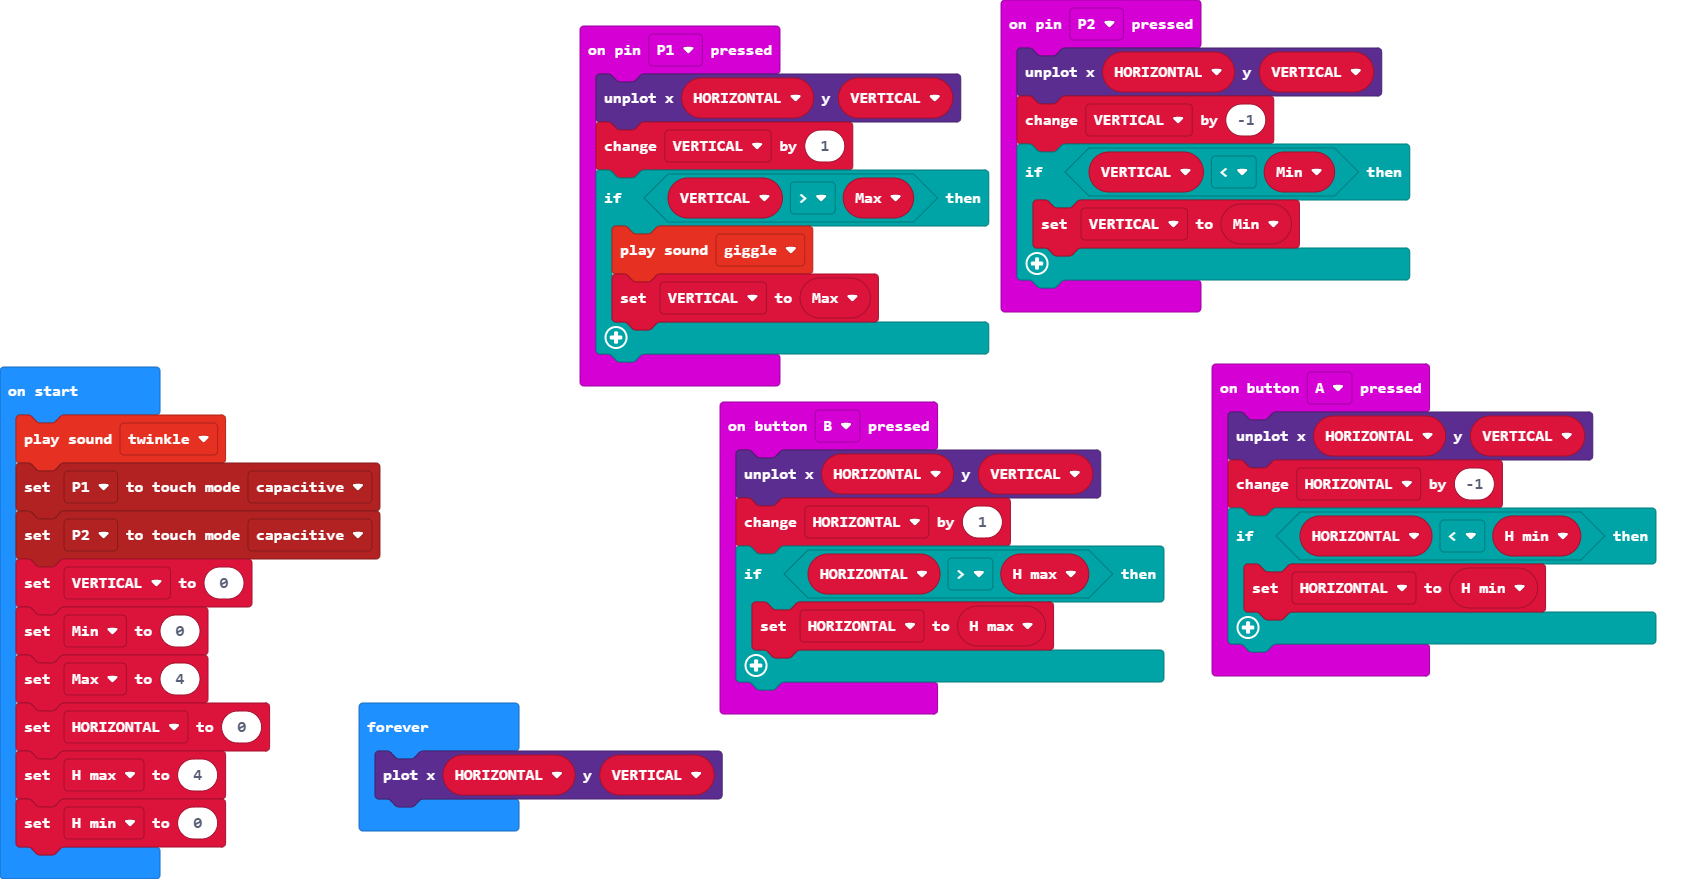
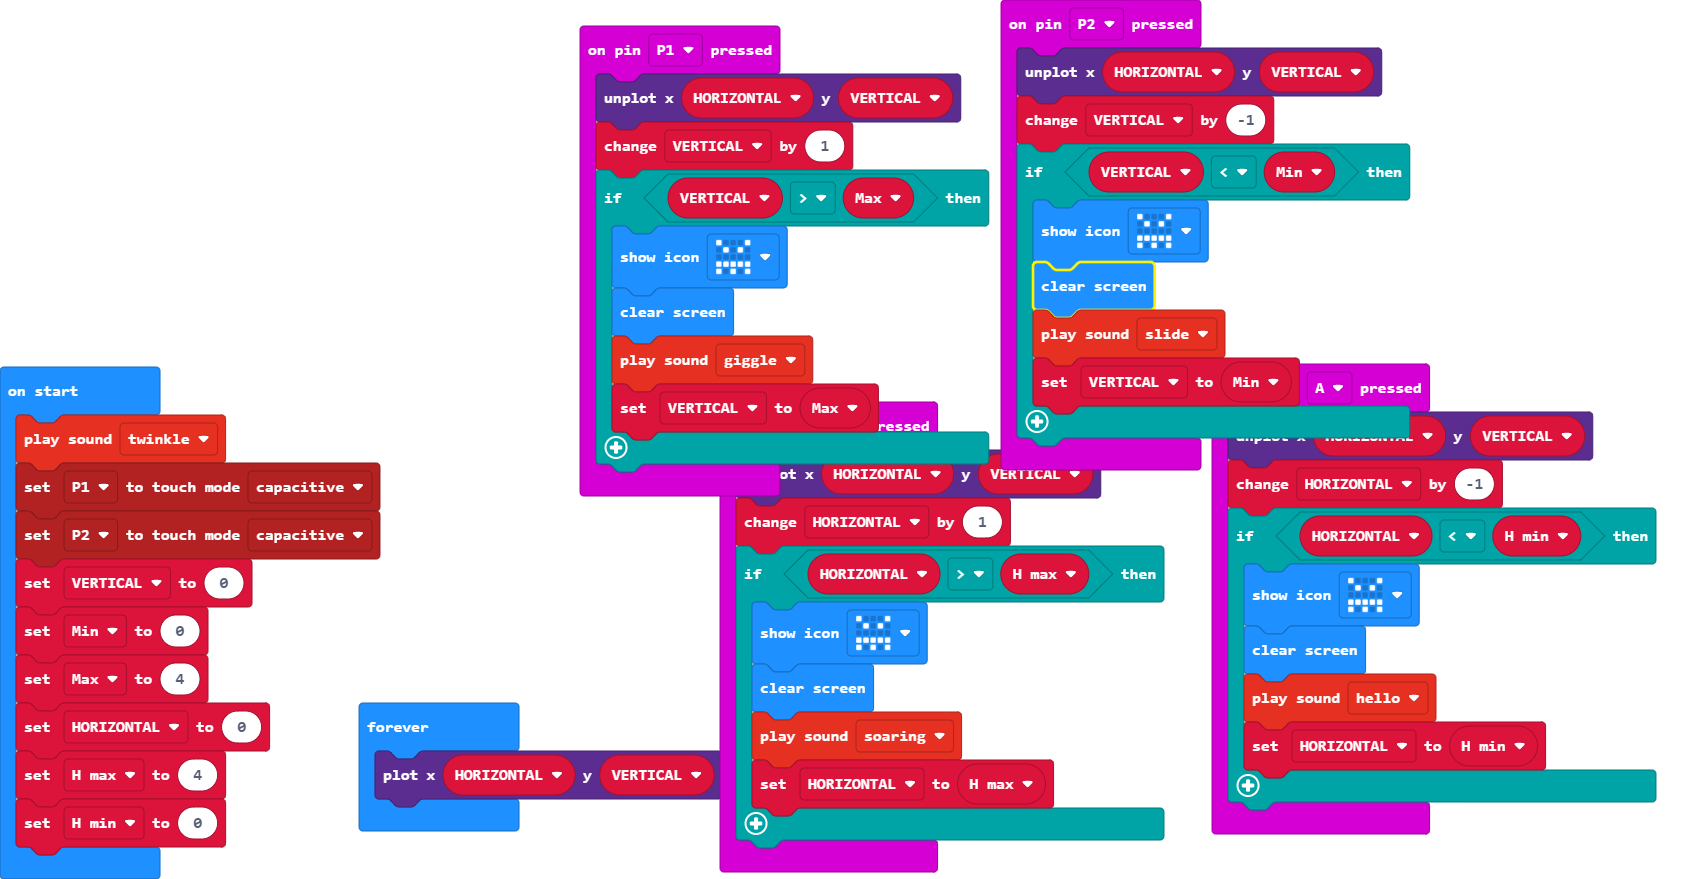
ADD: angry face

Changed region(s): [[0.4034, 0.6143, 0.993, 1.0], [0.3413, 0.215, 0.8378, 0.5836]]

diff --git a/main.ts b/main.ts
@@ -2,6 +2,9 @@ input.onButtonPressed(Button.A, function () {
     led.unplot(HORIZONTAL, VERTICAL)
     HORIZONTAL += -1
     if (HORIZONTAL < H_min) {
+        basic.showIcon(IconNames.Angry)
+        basic.clearScreen()
+        soundExpression.hello.play()
         HORIZONTAL = H_min
     }
 })
@@ -9,6 +12,9 @@ input.onPinPressed(TouchPin.P2, function () {
     led.unplot(HORIZONTAL, VERTICAL)
     VERTICAL += -1
     if (VERTICAL < Min) {
+        basic.showIcon(IconNames.Angry)
+        basic.clearScreen()
+        soundExpression.slide.play()
         VERTICAL = Min
     }
 })
@@ -16,6 +22,9 @@ input.onButtonPressed(Button.B, function () {
     led.unplot(HORIZONTAL, VERTICAL)
     HORIZONTAL += 1
     if (HORIZONTAL > H_max) {
+        basic.showIcon(IconNames.Angry)
+        basic.clearScreen()
+        soundExpression.soaring.play()
         HORIZONTAL = H_max
     }
 })
@@ -23,6 +32,8 @@ input.onPinPressed(TouchPin.P1, function () {
     led.unplot(HORIZONTAL, VERTICAL)
     VERTICAL += 1
     if (VERTICAL > Max) {
+        basic.showIcon(IconNames.Angry)
+        basic.clearScreen()
         soundExpression.giggle.play()
         VERTICAL = Max
     }
